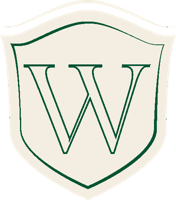
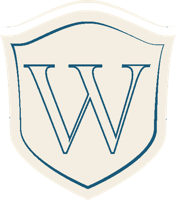
Paleta com os tons da logomarca (azul petróleo) e detalhes dourados
Claude-Session: https://claude.ai/code/session_01LjU1oqPuPxr3orGULgcndh

diff --git a/index.html b/index.html
@@ -1281,7 +1281,7 @@ if(!reduce && 'IntersectionObserver' in window){
   const code=()=>{const a='ABCDEFGHJKLMNPQRSTUVWXYZ23456789';let s='';const r=crypto.getRandomValues(new Uint8Array(6));r.forEach(n=>s+=a[n%a.length]);return 'WEISS-'+s};
   const logo=new Image();logo.src='assets/logo-weiss-escuro.png';
   const draw=d=>{const x=cv.getContext('2d'),W=cv.width,H=cv.height;
-    const g=x.createLinearGradient(0,0,W,H);g.addColorStop(0,'#006039');g.addColorStop(1,'#00221A');x.fillStyle=g;x.fillRect(0,0,W,H);
+    const g=x.createLinearGradient(0,0,W,H);g.addColorStop(0,'#185878');g.addColorStop(1,'#06202C');x.fillStyle=g;x.fillRect(0,0,W,H);
     const r=x.createRadialGradient(W*.8,0,10,W*.8,0,W);r.addColorStop(0,'rgba(232,213,168,.35)');r.addColorStop(1,'rgba(232,213,168,0)');x.fillStyle=r;x.fillRect(0,0,W,H);
     x.strokeStyle='#C9A86A';x.lineWidth=4;x.strokeRect(40,40,W-80,H-80);
     if(logo.complete&&logo.naturalWidth){const lh=300,lw=logo.naturalWidth*lh/logo.naturalHeight;x.drawImage(logo,(W-lw)/2,90,lw,lh)}
@@ -1431,8 +1431,8 @@ document.querySelectorAll('.copy').forEach(b=>b.addEventListener('click',()=>{
 </script>
 <style id="lux-theme">
 /* ===== Luxury theme: Rolex-style green + champagne gold, light & dark ===== */
-html[data-theme="light"]{--bg:#FBFAF6;--bg-2:#F3F0E8;--surface:#FFFFFF;--line:rgba(0,72,44,.14);--fg:#0E2A1F;--fg-dim:#4B5B53;--accent:#006039;--on-accent:#FFFFFF;--deep:#00452A;--gold:#A8884A;--gold-2:#D9C59C;--sec-1:#FBFAF6;--sec-2:#F3F0E8;--hero-glow:rgba(168,136,74,.16);--feat-a:#00452A;--feat-b:#001F14;--em-a:#00643C;--em-b:#A8884A;--btn:#006039;--btn-fg:#FFFFFF;--btn-h:#00452A;--logo-f:none;--shadow:0 22px 50px -34px rgba(0,40,25,.45);color-scheme:light}
-html[data-theme="dark"]{--bg:#05110C;--bg-2:#0A1A13;--surface:#0F2219;--line:rgba(217,197,156,.16);--fg:#F4F0E6;--fg-dim:#B9B3A2;--accent:#C9A86A;--on-accent:#0A1A13;--deep:#0E6B45;--gold:#C9A86A;--gold-2:#E8D5A8;--sec-1:#06140E;--sec-2:#0A1B14;--hero-glow:rgba(201,168,106,.14);--feat-a:#0B5A3A;--feat-b:#021009;--em-a:#EAD7A6;--em-b:#B8924F;--btn:#C9A86A;--btn-fg:#0A1A13;--btn-h:#E2C88E;--logo-f:brightness(0) saturate(100%) invert(80%) sepia(22%) saturate(640%) hue-rotate(2deg) brightness(95%);--shadow:0 26px 60px -30px rgba(0,0,0,.8);color-scheme:dark}
+html[data-theme="light"]{--bg:#FBFAF6;--bg-2:#F3F0E8;--surface:#FFFFFF;--line:rgba(24,88,120,.15);--fg:#0C2A38;--fg-dim:#4B5B53;--accent:#185878;--on-accent:#FFFFFF;--deep:#0F3F57;--gold:#A8884A;--gold-2:#D9C59C;--sec-1:#FBFAF6;--sec-2:#F3F0E8;--hero-glow:rgba(168,136,74,.16);--feat-a:#0F3F57;--feat-b:#061C27;--em-a:#185878;--em-b:#A8884A;--btn:#185878;--btn-fg:#FFFFFF;--btn-h:#0F3F57;--logo-f:none;--shadow:0 22px 50px -34px rgba(10,40,55,.45);color-scheme:light}
+html[data-theme="dark"]{--bg:#05141B;--bg-2:#071A23;--surface:#0D2533;--line:rgba(217,197,156,.16);--fg:#F4F0E6;--fg-dim:#B9B3A2;--accent:#C9A86A;--on-accent:#071A23;--deep:#1F6E8C;--gold:#C9A86A;--gold-2:#E8D5A8;--sec-1:#061A23;--sec-2:#08202B;--hero-glow:rgba(201,168,106,.14);--feat-a:#155A78;--feat-b:#03101A;--em-a:#EAD7A6;--em-b:#B8924F;--btn:#C9A86A;--btn-fg:#071A23;--btn-h:#E2C88E;--logo-f:brightness(0) saturate(100%) invert(80%) sepia(22%) saturate(640%) hue-rotate(2deg) brightness(95%);--shadow:0 26px 60px -30px rgba(0,0,0,.8);color-scheme:dark}
 html[data-theme]{--dim:var(--fg-dim);--card:var(--surface);--band:var(--bg-2);--link:var(--accent);--mint:var(--gold-2)}
 html[data-theme] body,html[data-theme] main{background:var(--bg)!important;color:var(--fg)}
 html[data-theme] body::before{background:var(--bg)!important}
@@ -1474,7 +1474,7 @@ html[data-theme] .stats{box-shadow:none!important}
 html[data-theme] .stat{border-color:var(--line)!important}
 html[data-theme] .plan.featured,html[data-theme] .plan.feat{border-color:var(--gold)!important;box-shadow:0 0 0 1px var(--gold),var(--shadow)!important}
 html[data-theme] th{background:var(--bg-2)!important;color:var(--fg)!important}
-html[data-theme] th.inv{background:linear-gradient(135deg,var(--deep),#00331F)!important;color:#F1E2BB!important}
+html[data-theme] th.inv{background:linear-gradient(135deg,var(--deep),#0A2C3D)!important;color:#F1E2BB!important}
 html[data-theme] td.yes{color:var(--fg)!important}
 html[data-theme] td.yes::before{color:var(--gold)!important}
 html[data-theme] .float b,html[data-theme] .badge b{color:var(--gold)!important}
@@ -1483,21 +1483,21 @@ html[data-theme] .chip,html[data-theme] .ptabs,html[data-theme] .copy{background
 html[data-theme] .chip.on,html[data-theme] .ptab.on{background:var(--btn)!important;color:var(--btn-fg)!important;border-color:var(--btn)!important}
 html[data-theme] .ptab{color:var(--fg-dim)!important}
 /* buttons */
-html[data-theme] .btn-gold{background:var(--btn)!important;color:var(--btn-fg)!important;box-shadow:0 10px 26px -14px rgba(0,60,35,.6)}
+html[data-theme] .btn-gold{background:var(--btn)!important;color:var(--btn-fg)!important;box-shadow:0 10px 26px -14px rgba(12,50,70,.6)}
 html[data-theme] .btn-gold:hover{background:var(--btn-h)!important}
 html[data-theme] .btn-ghost{background:transparent!important;color:var(--fg)!important;border:1px solid var(--gold)!important}
 html[data-theme] .world .btn-ghost,html[data-theme] .cta-band .btn-ghost,html[data-theme] .book .btn-ghost{color:#F4F0E6!important}
-html[data-theme] .cta-band .btn-gold,html[data-theme] .book .btn-gold{background:#C9A86A!important;color:#0A1A13!important}
+html[data-theme] .cta-band .btn-gold,html[data-theme] .book .btn-gold{background:#C9A86A!important;color:#071A23!important}
 /* icons */
-html[data-theme] .svc-ic,html[data-theme] .svc:nth-child(n) .svc-ic,html[data-theme] .ico{background:linear-gradient(135deg,#0B6E47,#00331F)!important;color:#EAD7A6!important;box-shadow:inset 0 0 0 1px rgba(234,215,166,.35)}
+html[data-theme] .svc-ic,html[data-theme] .svc:nth-child(n) .svc-ic,html[data-theme] .ico{background:linear-gradient(135deg,#1F6E8C,#0A2C3D)!important;color:#EAD7A6!important;box-shadow:inset 0 0 0 1px rgba(234,215,166,.35)}
 html[data-theme] .svc-go{color:var(--gold)!important}
 html[data-theme] .cls .vis{background:linear-gradient(160deg,var(--bg-2),var(--surface))!important}
 /* apple-style tiles → green / gold / black */
 html[data-theme] .at-gray,html[data-theme] .at-white,html[data-theme] .at-mint{background:radial-gradient(80% 60% at 50% 70%,var(--hero-glow),transparent 70%),var(--sec-2)!important;color:var(--fg)!important}
-html[data-theme] .at-black{background:radial-gradient(70% 55% at 50% 72%,#0B5A3A 0%,#01120B 72%)!important;color:#F4F0E6!important}
+html[data-theme] .at-black{background:radial-gradient(70% 55% at 50% 72%,#155A78 0%,#03121A 72%)!important;color:#F4F0E6!important}
 html[data-theme] .at-black h3{color:#F7F2E7!important}html[data-theme] .at-black .at-sub{color:#CFC8B6!important}html[data-theme] .at-black .at-links a{color:#D9C59C!important}
 html[data-theme] .at-coral{background:radial-gradient(70% 60% at 50% 70%,rgba(255,240,205,.35),transparent 70%),linear-gradient(160deg,#C9A86A,#8C6A2F)!important;color:#1A1205!important}
-html[data-theme] .at-violet{background:radial-gradient(70% 60% at 50% 70%,rgba(201,168,106,.25),transparent 70%),linear-gradient(160deg,#0E6B45,#003621)!important;color:#F7F2E7!important}
+html[data-theme] .at-violet{background:radial-gradient(70% 60% at 50% 70%,rgba(201,168,106,.25),transparent 70%),linear-gradient(160deg,#1F6E8C,#0A2C3D)!important;color:#F7F2E7!important}
 html[data-theme] .at-sun{background:radial-gradient(70% 60% at 50% 70%,rgba(255,250,235,.5),transparent 70%),linear-gradient(160deg,#EFE3C6,#C9A86A)!important;color:#1A1205!important}
 html[data-theme] .at-coral h3,html[data-theme] .at-sun h3{color:#1A1205!important}html[data-theme] .at-violet h3{color:#F7F2E7!important}
 html[data-theme] .at-coral .at-sub,html[data-theme] .at-sun .at-sub{color:#3A2C12!important}html[data-theme] .at-violet .at-sub{color:#E3DCCB!important}
@@ -1508,11 +1508,11 @@ html[data-theme="dark"] .portrait img,html[data-theme="dark"] .at-mint .at-media
 html[data-theme="dark"] .portrait::before{background:radial-gradient(closest-side,rgba(201,168,106,.28),rgba(201,168,106,0) 72%)!important}
 html[data-theme="dark"] .at-media::before{background:radial-gradient(closest-side,rgba(201,168,106,.22),rgba(201,168,106,0))!important}
 /* watch rings in brand luxury tones */
-html[data-theme] .r1{stroke:#0E6B45}html[data-theme] .r2{stroke:#C9A86A}html[data-theme] .r3{stroke:#E8D5A8}html[data-theme] .r4{stroke:#C9A86A}
-html[data-theme] .honey{background:radial-gradient(closest-side,#0B2A1D,#020C07)!important}
+html[data-theme] .r1{stroke:#1F6E8C}html[data-theme] .r2{stroke:#C9A86A}html[data-theme] .r3{stroke:#E8D5A8}html[data-theme] .r4{stroke:#C9A86A}
+html[data-theme] .honey{background:radial-gradient(closest-side,#0A2633,#020B12)!important}
 html[data-theme] .bub{box-shadow:0 0 0 1.5px rgba(232,213,168,.9),0 6px 16px -6px rgba(0,0,0,.6)!important}
 html[data-theme] .at-3d path[stroke^="url"]{stroke:#C9A86A}html[data-theme] .at-3d path[stroke="#2997FF"],html[data-theme] .at-3d path[stroke="#5AC8FA"]{stroke:#E8D5A8}html[data-theme] .spark{fill:#E8D5A8}
-html[data-theme="light"] .at-white .at-3d path[stroke^="url"]{stroke:#00643C}
+html[data-theme="light"] .at-white .at-3d path[stroke^="url"]{stroke:#1A6585}
 
 /* dark-mode negative logo */
 html[data-theme="dark"]{--logo-f:none}

diff --git a/dentista-caruaru.html b/dentista-caruaru.html
@@ -350,8 +350,8 @@ footer a{color:#0066CC;text-decoration:none}
 </script>
 <style id="lux-theme">
 /* ===== Luxury theme: Rolex-style green + champagne gold, light & dark ===== */
-html[data-theme="light"]{--bg:#FBFAF6;--bg-2:#F3F0E8;--surface:#FFFFFF;--line:rgba(0,72,44,.14);--fg:#0E2A1F;--fg-dim:#4B5B53;--accent:#006039;--on-accent:#FFFFFF;--deep:#00452A;--gold:#A8884A;--gold-2:#D9C59C;--sec-1:#FBFAF6;--sec-2:#F3F0E8;--hero-glow:rgba(168,136,74,.16);--feat-a:#00452A;--feat-b:#001F14;--em-a:#00643C;--em-b:#A8884A;--btn:#006039;--btn-fg:#FFFFFF;--btn-h:#00452A;--logo-f:none;--shadow:0 22px 50px -34px rgba(0,40,25,.45);color-scheme:light}
-html[data-theme="dark"]{--bg:#05110C;--bg-2:#0A1A13;--surface:#0F2219;--line:rgba(217,197,156,.16);--fg:#F4F0E6;--fg-dim:#B9B3A2;--accent:#C9A86A;--on-accent:#0A1A13;--deep:#0E6B45;--gold:#C9A86A;--gold-2:#E8D5A8;--sec-1:#06140E;--sec-2:#0A1B14;--hero-glow:rgba(201,168,106,.14);--feat-a:#0B5A3A;--feat-b:#021009;--em-a:#EAD7A6;--em-b:#B8924F;--btn:#C9A86A;--btn-fg:#0A1A13;--btn-h:#E2C88E;--logo-f:brightness(0) saturate(100%) invert(80%) sepia(22%) saturate(640%) hue-rotate(2deg) brightness(95%);--shadow:0 26px 60px -30px rgba(0,0,0,.8);color-scheme:dark}
+html[data-theme="light"]{--bg:#FBFAF6;--bg-2:#F3F0E8;--surface:#FFFFFF;--line:rgba(24,88,120,.15);--fg:#0C2A38;--fg-dim:#4B5B53;--accent:#185878;--on-accent:#FFFFFF;--deep:#0F3F57;--gold:#A8884A;--gold-2:#D9C59C;--sec-1:#FBFAF6;--sec-2:#F3F0E8;--hero-glow:rgba(168,136,74,.16);--feat-a:#0F3F57;--feat-b:#061C27;--em-a:#185878;--em-b:#A8884A;--btn:#185878;--btn-fg:#FFFFFF;--btn-h:#0F3F57;--logo-f:none;--shadow:0 22px 50px -34px rgba(10,40,55,.45);color-scheme:light}
+html[data-theme="dark"]{--bg:#05141B;--bg-2:#071A23;--surface:#0D2533;--line:rgba(217,197,156,.16);--fg:#F4F0E6;--fg-dim:#B9B3A2;--accent:#C9A86A;--on-accent:#071A23;--deep:#1F6E8C;--gold:#C9A86A;--gold-2:#E8D5A8;--sec-1:#061A23;--sec-2:#08202B;--hero-glow:rgba(201,168,106,.14);--feat-a:#155A78;--feat-b:#03101A;--em-a:#EAD7A6;--em-b:#B8924F;--btn:#C9A86A;--btn-fg:#071A23;--btn-h:#E2C88E;--logo-f:brightness(0) saturate(100%) invert(80%) sepia(22%) saturate(640%) hue-rotate(2deg) brightness(95%);--shadow:0 26px 60px -30px rgba(0,0,0,.8);color-scheme:dark}
 html[data-theme]{--dim:var(--fg-dim);--card:var(--surface);--band:var(--bg-2);--link:var(--accent);--mint:var(--gold-2)}
 html[data-theme] body,html[data-theme] main{background:var(--bg)!important;color:var(--fg)}
 html[data-theme] body::before{background:var(--bg)!important}
@@ -393,7 +393,7 @@ html[data-theme] .stats{box-shadow:none!important}
 html[data-theme] .stat{border-color:var(--line)!important}
 html[data-theme] .plan.featured,html[data-theme] .plan.feat{border-color:var(--gold)!important;box-shadow:0 0 0 1px var(--gold),var(--shadow)!important}
 html[data-theme] th{background:var(--bg-2)!important;color:var(--fg)!important}
-html[data-theme] th.inv{background:linear-gradient(135deg,var(--deep),#00331F)!important;color:#F1E2BB!important}
+html[data-theme] th.inv{background:linear-gradient(135deg,var(--deep),#0A2C3D)!important;color:#F1E2BB!important}
 html[data-theme] td.yes{color:var(--fg)!important}
 html[data-theme] td.yes::before{color:var(--gold)!important}
 html[data-theme] .float b,html[data-theme] .badge b{color:var(--gold)!important}
@@ -402,21 +402,21 @@ html[data-theme] .chip,html[data-theme] .ptabs,html[data-theme] .copy{background
 html[data-theme] .chip.on,html[data-theme] .ptab.on{background:var(--btn)!important;color:var(--btn-fg)!important;border-color:var(--btn)!important}
 html[data-theme] .ptab{color:var(--fg-dim)!important}
 /* buttons */
-html[data-theme] .btn-gold{background:var(--btn)!important;color:var(--btn-fg)!important;box-shadow:0 10px 26px -14px rgba(0,60,35,.6)}
+html[data-theme] .btn-gold{background:var(--btn)!important;color:var(--btn-fg)!important;box-shadow:0 10px 26px -14px rgba(12,50,70,.6)}
 html[data-theme] .btn-gold:hover{background:var(--btn-h)!important}
 html[data-theme] .btn-ghost{background:transparent!important;color:var(--fg)!important;border:1px solid var(--gold)!important}
 html[data-theme] .world .btn-ghost,html[data-theme] .cta-band .btn-ghost,html[data-theme] .book .btn-ghost{color:#F4F0E6!important}
-html[data-theme] .cta-band .btn-gold,html[data-theme] .book .btn-gold{background:#C9A86A!important;color:#0A1A13!important}
+html[data-theme] .cta-band .btn-gold,html[data-theme] .book .btn-gold{background:#C9A86A!important;color:#071A23!important}
 /* icons */
-html[data-theme] .svc-ic,html[data-theme] .svc:nth-child(n) .svc-ic,html[data-theme] .ico{background:linear-gradient(135deg,#0B6E47,#00331F)!important;color:#EAD7A6!important;box-shadow:inset 0 0 0 1px rgba(234,215,166,.35)}
+html[data-theme] .svc-ic,html[data-theme] .svc:nth-child(n) .svc-ic,html[data-theme] .ico{background:linear-gradient(135deg,#1F6E8C,#0A2C3D)!important;color:#EAD7A6!important;box-shadow:inset 0 0 0 1px rgba(234,215,166,.35)}
 html[data-theme] .svc-go{color:var(--gold)!important}
 html[data-theme] .cls .vis{background:linear-gradient(160deg,var(--bg-2),var(--surface))!important}
 /* apple-style tiles → green / gold / black */
 html[data-theme] .at-gray,html[data-theme] .at-white,html[data-theme] .at-mint{background:radial-gradient(80% 60% at 50% 70%,var(--hero-glow),transparent 70%),var(--sec-2)!important;color:var(--fg)!important}
-html[data-theme] .at-black{background:radial-gradient(70% 55% at 50% 72%,#0B5A3A 0%,#01120B 72%)!important;color:#F4F0E6!important}
+html[data-theme] .at-black{background:radial-gradient(70% 55% at 50% 72%,#155A78 0%,#03121A 72%)!important;color:#F4F0E6!important}
 html[data-theme] .at-black h3{color:#F7F2E7!important}html[data-theme] .at-black .at-sub{color:#CFC8B6!important}html[data-theme] .at-black .at-links a{color:#D9C59C!important}
 html[data-theme] .at-coral{background:radial-gradient(70% 60% at 50% 70%,rgba(255,240,205,.35),transparent 70%),linear-gradient(160deg,#C9A86A,#8C6A2F)!important;color:#1A1205!important}
-html[data-theme] .at-violet{background:radial-gradient(70% 60% at 50% 70%,rgba(201,168,106,.25),transparent 70%),linear-gradient(160deg,#0E6B45,#003621)!important;color:#F7F2E7!important}
+html[data-theme] .at-violet{background:radial-gradient(70% 60% at 50% 70%,rgba(201,168,106,.25),transparent 70%),linear-gradient(160deg,#1F6E8C,#0A2C3D)!important;color:#F7F2E7!important}
 html[data-theme] .at-sun{background:radial-gradient(70% 60% at 50% 70%,rgba(255,250,235,.5),transparent 70%),linear-gradient(160deg,#EFE3C6,#C9A86A)!important;color:#1A1205!important}
 html[data-theme] .at-coral h3,html[data-theme] .at-sun h3{color:#1A1205!important}html[data-theme] .at-violet h3{color:#F7F2E7!important}
 html[data-theme] .at-coral .at-sub,html[data-theme] .at-sun .at-sub{color:#3A2C12!important}html[data-theme] .at-violet .at-sub{color:#E3DCCB!important}
@@ -427,11 +427,11 @@ html[data-theme="dark"] .portrait img,html[data-theme="dark"] .at-mint .at-media
 html[data-theme="dark"] .portrait::before{background:radial-gradient(closest-side,rgba(201,168,106,.28),rgba(201,168,106,0) 72%)!important}
 html[data-theme="dark"] .at-media::before{background:radial-gradient(closest-side,rgba(201,168,106,.22),rgba(201,168,106,0))!important}
 /* watch rings in brand luxury tones */
-html[data-theme] .r1{stroke:#0E6B45}html[data-theme] .r2{stroke:#C9A86A}html[data-theme] .r3{stroke:#E8D5A8}html[data-theme] .r4{stroke:#C9A86A}
-html[data-theme] .honey{background:radial-gradient(closest-side,#0B2A1D,#020C07)!important}
+html[data-theme] .r1{stroke:#1F6E8C}html[data-theme] .r2{stroke:#C9A86A}html[data-theme] .r3{stroke:#E8D5A8}html[data-theme] .r4{stroke:#C9A86A}
+html[data-theme] .honey{background:radial-gradient(closest-side,#0A2633,#020B12)!important}
 html[data-theme] .bub{box-shadow:0 0 0 1.5px rgba(232,213,168,.9),0 6px 16px -6px rgba(0,0,0,.6)!important}
 html[data-theme] .at-3d path[stroke^="url"]{stroke:#C9A86A}html[data-theme] .at-3d path[stroke="#2997FF"],html[data-theme] .at-3d path[stroke="#5AC8FA"]{stroke:#E8D5A8}html[data-theme] .spark{fill:#E8D5A8}
-html[data-theme="light"] .at-white .at-3d path[stroke^="url"]{stroke:#00643C}
+html[data-theme="light"] .at-white .at-3d path[stroke^="url"]{stroke:#1A6585}
 
 /* dark-mode negative logo */
 html[data-theme="dark"]{--logo-f:none}

diff --git a/dentista-recife.html b/dentista-recife.html
@@ -350,8 +350,8 @@ footer a{color:#0066CC;text-decoration:none}
 </script>
 <style id="lux-theme">
 /* ===== Luxury theme: Rolex-style green + champagne gold, light & dark ===== */
-html[data-theme="light"]{--bg:#FBFAF6;--bg-2:#F3F0E8;--surface:#FFFFFF;--line:rgba(0,72,44,.14);--fg:#0E2A1F;--fg-dim:#4B5B53;--accent:#006039;--on-accent:#FFFFFF;--deep:#00452A;--gold:#A8884A;--gold-2:#D9C59C;--sec-1:#FBFAF6;--sec-2:#F3F0E8;--hero-glow:rgba(168,136,74,.16);--feat-a:#00452A;--feat-b:#001F14;--em-a:#00643C;--em-b:#A8884A;--btn:#006039;--btn-fg:#FFFFFF;--btn-h:#00452A;--logo-f:none;--shadow:0 22px 50px -34px rgba(0,40,25,.45);color-scheme:light}
-html[data-theme="dark"]{--bg:#05110C;--bg-2:#0A1A13;--surface:#0F2219;--line:rgba(217,197,156,.16);--fg:#F4F0E6;--fg-dim:#B9B3A2;--accent:#C9A86A;--on-accent:#0A1A13;--deep:#0E6B45;--gold:#C9A86A;--gold-2:#E8D5A8;--sec-1:#06140E;--sec-2:#0A1B14;--hero-glow:rgba(201,168,106,.14);--feat-a:#0B5A3A;--feat-b:#021009;--em-a:#EAD7A6;--em-b:#B8924F;--btn:#C9A86A;--btn-fg:#0A1A13;--btn-h:#E2C88E;--logo-f:brightness(0) saturate(100%) invert(80%) sepia(22%) saturate(640%) hue-rotate(2deg) brightness(95%);--shadow:0 26px 60px -30px rgba(0,0,0,.8);color-scheme:dark}
+html[data-theme="light"]{--bg:#FBFAF6;--bg-2:#F3F0E8;--surface:#FFFFFF;--line:rgba(24,88,120,.15);--fg:#0C2A38;--fg-dim:#4B5B53;--accent:#185878;--on-accent:#FFFFFF;--deep:#0F3F57;--gold:#A8884A;--gold-2:#D9C59C;--sec-1:#FBFAF6;--sec-2:#F3F0E8;--hero-glow:rgba(168,136,74,.16);--feat-a:#0F3F57;--feat-b:#061C27;--em-a:#185878;--em-b:#A8884A;--btn:#185878;--btn-fg:#FFFFFF;--btn-h:#0F3F57;--logo-f:none;--shadow:0 22px 50px -34px rgba(10,40,55,.45);color-scheme:light}
+html[data-theme="dark"]{--bg:#05141B;--bg-2:#071A23;--surface:#0D2533;--line:rgba(217,197,156,.16);--fg:#F4F0E6;--fg-dim:#B9B3A2;--accent:#C9A86A;--on-accent:#071A23;--deep:#1F6E8C;--gold:#C9A86A;--gold-2:#E8D5A8;--sec-1:#061A23;--sec-2:#08202B;--hero-glow:rgba(201,168,106,.14);--feat-a:#155A78;--feat-b:#03101A;--em-a:#EAD7A6;--em-b:#B8924F;--btn:#C9A86A;--btn-fg:#071A23;--btn-h:#E2C88E;--logo-f:brightness(0) saturate(100%) invert(80%) sepia(22%) saturate(640%) hue-rotate(2deg) brightness(95%);--shadow:0 26px 60px -30px rgba(0,0,0,.8);color-scheme:dark}
 html[data-theme]{--dim:var(--fg-dim);--card:var(--surface);--band:var(--bg-2);--link:var(--accent);--mint:var(--gold-2)}
 html[data-theme] body,html[data-theme] main{background:var(--bg)!important;color:var(--fg)}
 html[data-theme] body::before{background:var(--bg)!important}
@@ -393,7 +393,7 @@ html[data-theme] .stats{box-shadow:none!important}
 html[data-theme] .stat{border-color:var(--line)!important}
 html[data-theme] .plan.featured,html[data-theme] .plan.feat{border-color:var(--gold)!important;box-shadow:0 0 0 1px var(--gold),var(--shadow)!important}
 html[data-theme] th{background:var(--bg-2)!important;color:var(--fg)!important}
-html[data-theme] th.inv{background:linear-gradient(135deg,var(--deep),#00331F)!important;color:#F1E2BB!important}
+html[data-theme] th.inv{background:linear-gradient(135deg,var(--deep),#0A2C3D)!important;color:#F1E2BB!important}
 html[data-theme] td.yes{color:var(--fg)!important}
 html[data-theme] td.yes::before{color:var(--gold)!important}
 html[data-theme] .float b,html[data-theme] .badge b{color:var(--gold)!important}
@@ -402,21 +402,21 @@ html[data-theme] .chip,html[data-theme] .ptabs,html[data-theme] .copy{background
 html[data-theme] .chip.on,html[data-theme] .ptab.on{background:var(--btn)!important;color:var(--btn-fg)!important;border-color:var(--btn)!important}
 html[data-theme] .ptab{color:var(--fg-dim)!important}
 /* buttons */
-html[data-theme] .btn-gold{background:var(--btn)!important;color:var(--btn-fg)!important;box-shadow:0 10px 26px -14px rgba(0,60,35,.6)}
+html[data-theme] .btn-gold{background:var(--btn)!important;color:var(--btn-fg)!important;box-shadow:0 10px 26px -14px rgba(12,50,70,.6)}
 html[data-theme] .btn-gold:hover{background:var(--btn-h)!important}
 html[data-theme] .btn-ghost{background:transparent!important;color:var(--fg)!important;border:1px solid var(--gold)!important}
 html[data-theme] .world .btn-ghost,html[data-theme] .cta-band .btn-ghost,html[data-theme] .book .btn-ghost{color:#F4F0E6!important}
-html[data-theme] .cta-band .btn-gold,html[data-theme] .book .btn-gold{background:#C9A86A!important;color:#0A1A13!important}
+html[data-theme] .cta-band .btn-gold,html[data-theme] .book .btn-gold{background:#C9A86A!important;color:#071A23!important}
 /* icons */
-html[data-theme] .svc-ic,html[data-theme] .svc:nth-child(n) .svc-ic,html[data-theme] .ico{background:linear-gradient(135deg,#0B6E47,#00331F)!important;color:#EAD7A6!important;box-shadow:inset 0 0 0 1px rgba(234,215,166,.35)}
+html[data-theme] .svc-ic,html[data-theme] .svc:nth-child(n) .svc-ic,html[data-theme] .ico{background:linear-gradient(135deg,#1F6E8C,#0A2C3D)!important;color:#EAD7A6!important;box-shadow:inset 0 0 0 1px rgba(234,215,166,.35)}
 html[data-theme] .svc-go{color:var(--gold)!important}
 html[data-theme] .cls .vis{background:linear-gradient(160deg,var(--bg-2),var(--surface))!important}
 /* apple-style tiles → green / gold / black */
 html[data-theme] .at-gray,html[data-theme] .at-white,html[data-theme] .at-mint{background:radial-gradient(80% 60% at 50% 70%,var(--hero-glow),transparent 70%),var(--sec-2)!important;color:var(--fg)!important}
-html[data-theme] .at-black{background:radial-gradient(70% 55% at 50% 72%,#0B5A3A 0%,#01120B 72%)!important;color:#F4F0E6!important}
+html[data-theme] .at-black{background:radial-gradient(70% 55% at 50% 72%,#155A78 0%,#03121A 72%)!important;color:#F4F0E6!important}
 html[data-theme] .at-black h3{color:#F7F2E7!important}html[data-theme] .at-black .at-sub{color:#CFC8B6!important}html[data-theme] .at-black .at-links a{color:#D9C59C!important}
 html[data-theme] .at-coral{background:radial-gradient(70% 60% at 50% 70%,rgba(255,240,205,.35),transparent 70%),linear-gradient(160deg,#C9A86A,#8C6A2F)!important;color:#1A1205!important}
-html[data-theme] .at-violet{background:radial-gradient(70% 60% at 50% 70%,rgba(201,168,106,.25),transparent 70%),linear-gradient(160deg,#0E6B45,#003621)!important;color:#F7F2E7!important}
+html[data-theme] .at-violet{background:radial-gradient(70% 60% at 50% 70%,rgba(201,168,106,.25),transparent 70%),linear-gradient(160deg,#1F6E8C,#0A2C3D)!important;color:#F7F2E7!important}
 html[data-theme] .at-sun{background:radial-gradient(70% 60% at 50% 70%,rgba(255,250,235,.5),transparent 70%),linear-gradient(160deg,#EFE3C6,#C9A86A)!important;color:#1A1205!important}
 html[data-theme] .at-coral h3,html[data-theme] .at-sun h3{color:#1A1205!important}html[data-theme] .at-violet h3{color:#F7F2E7!important}
 html[data-theme] .at-coral .at-sub,html[data-theme] .at-sun .at-sub{color:#3A2C12!important}html[data-theme] .at-violet .at-sub{color:#E3DCCB!important}
@@ -427,11 +427,11 @@ html[data-theme="dark"] .portrait img,html[data-theme="dark"] .at-mint .at-media
 html[data-theme="dark"] .portrait::before{background:radial-gradient(closest-side,rgba(201,168,106,.28),rgba(201,168,106,0) 72%)!important}
 html[data-theme="dark"] .at-media::before{background:radial-gradient(closest-side,rgba(201,168,106,.22),rgba(201,168,106,0))!important}
 /* watch rings in brand luxury tones */
-html[data-theme] .r1{stroke:#0E6B45}html[data-theme] .r2{stroke:#C9A86A}html[data-theme] .r3{stroke:#E8D5A8}html[data-theme] .r4{stroke:#C9A86A}
-html[data-theme] .honey{background:radial-gradient(closest-side,#0B2A1D,#020C07)!important}
+html[data-theme] .r1{stroke:#1F6E8C}html[data-theme] .r2{stroke:#C9A86A}html[data-theme] .r3{stroke:#E8D5A8}html[data-theme] .r4{stroke:#C9A86A}
+html[data-theme] .honey{background:radial-gradient(closest-side,#0A2633,#020B12)!important}
 html[data-theme] .bub{box-shadow:0 0 0 1.5px rgba(232,213,168,.9),0 6px 16px -6px rgba(0,0,0,.6)!important}
 html[data-theme] .at-3d path[stroke^="url"]{stroke:#C9A86A}html[data-theme] .at-3d path[stroke="#2997FF"],html[data-theme] .at-3d path[stroke="#5AC8FA"]{stroke:#E8D5A8}html[data-theme] .spark{fill:#E8D5A8}
-html[data-theme="light"] .at-white .at-3d path[stroke^="url"]{stroke:#00643C}
+html[data-theme="light"] .at-white .at-3d path[stroke^="url"]{stroke:#1A6585}
 
 /* dark-mode negative logo */
 html[data-theme="dark"]{--logo-f:none}

diff --git a/invisalign.html b/invisalign.html
@@ -395,8 +395,8 @@ footer a{color:#0066CC;text-decoration:none}
 </script>
 <style id="lux-theme">
 /* ===== Luxury theme: Rolex-style green + champagne gold, light & dark ===== */
-html[data-theme="light"]{--bg:#FBFAF6;--bg-2:#F3F0E8;--surface:#FFFFFF;--line:rgba(0,72,44,.14);--fg:#0E2A1F;--fg-dim:#4B5B53;--accent:#006039;--on-accent:#FFFFFF;--deep:#00452A;--gold:#A8884A;--gold-2:#D9C59C;--sec-1:#FBFAF6;--sec-2:#F3F0E8;--hero-glow:rgba(168,136,74,.16);--feat-a:#00452A;--feat-b:#001F14;--em-a:#00643C;--em-b:#A8884A;--btn:#006039;--btn-fg:#FFFFFF;--btn-h:#00452A;--logo-f:none;--shadow:0 22px 50px -34px rgba(0,40,25,.45);color-scheme:light}
-html[data-theme="dark"]{--bg:#05110C;--bg-2:#0A1A13;--surface:#0F2219;--line:rgba(217,197,156,.16);--fg:#F4F0E6;--fg-dim:#B9B3A2;--accent:#C9A86A;--on-accent:#0A1A13;--deep:#0E6B45;--gold:#C9A86A;--gold-2:#E8D5A8;--sec-1:#06140E;--sec-2:#0A1B14;--hero-glow:rgba(201,168,106,.14);--feat-a:#0B5A3A;--feat-b:#021009;--em-a:#EAD7A6;--em-b:#B8924F;--btn:#C9A86A;--btn-fg:#0A1A13;--btn-h:#E2C88E;--logo-f:brightness(0) saturate(100%) invert(80%) sepia(22%) saturate(640%) hue-rotate(2deg) brightness(95%);--shadow:0 26px 60px -30px rgba(0,0,0,.8);color-scheme:dark}
+html[data-theme="light"]{--bg:#FBFAF6;--bg-2:#F3F0E8;--surface:#FFFFFF;--line:rgba(24,88,120,.15);--fg:#0C2A38;--fg-dim:#4B5B53;--accent:#185878;--on-accent:#FFFFFF;--deep:#0F3F57;--gold:#A8884A;--gold-2:#D9C59C;--sec-1:#FBFAF6;--sec-2:#F3F0E8;--hero-glow:rgba(168,136,74,.16);--feat-a:#0F3F57;--feat-b:#061C27;--em-a:#185878;--em-b:#A8884A;--btn:#185878;--btn-fg:#FFFFFF;--btn-h:#0F3F57;--logo-f:none;--shadow:0 22px 50px -34px rgba(10,40,55,.45);color-scheme:light}
+html[data-theme="dark"]{--bg:#05141B;--bg-2:#071A23;--surface:#0D2533;--line:rgba(217,197,156,.16);--fg:#F4F0E6;--fg-dim:#B9B3A2;--accent:#C9A86A;--on-accent:#071A23;--deep:#1F6E8C;--gold:#C9A86A;--gold-2:#E8D5A8;--sec-1:#061A23;--sec-2:#08202B;--hero-glow:rgba(201,168,106,.14);--feat-a:#155A78;--feat-b:#03101A;--em-a:#EAD7A6;--em-b:#B8924F;--btn:#C9A86A;--btn-fg:#071A23;--btn-h:#E2C88E;--logo-f:brightness(0) saturate(100%) invert(80%) sepia(22%) saturate(640%) hue-rotate(2deg) brightness(95%);--shadow:0 26px 60px -30px rgba(0,0,0,.8);color-scheme:dark}
 html[data-theme]{--dim:var(--fg-dim);--card:var(--surface);--band:var(--bg-2);--link:var(--accent);--mint:var(--gold-2)}
 html[data-theme] body,html[data-theme] main{background:var(--bg)!important;color:var(--fg)}
 html[data-theme] body::before{background:var(--bg)!important}
@@ -438,7 +438,7 @@ html[data-theme] .stats{box-shadow:none!important}
 html[data-theme] .stat{border-color:var(--line)!important}
 html[data-theme] .plan.featured,html[data-theme] .plan.feat{border-color:var(--gold)!important;box-shadow:0 0 0 1px var(--gold),var(--shadow)!important}
 html[data-theme] th{background:var(--bg-2)!important;color:var(--fg)!important}
-html[data-theme] th.inv{background:linear-gradient(135deg,var(--deep),#00331F)!important;color:#F1E2BB!important}
+html[data-theme] th.inv{background:linear-gradient(135deg,var(--deep),#0A2C3D)!important;color:#F1E2BB!important}
 html[data-theme] td.yes{color:var(--fg)!important}
 html[data-theme] td.yes::before{color:var(--gold)!important}
 html[data-theme] .float b,html[data-theme] .badge b{color:var(--gold)!important}
@@ -447,21 +447,21 @@ html[data-theme] .chip,html[data-theme] .ptabs,html[data-theme] .copy{background
 html[data-theme] .chip.on,html[data-theme] .ptab.on{background:var(--btn)!important;color:var(--btn-fg)!important;border-color:var(--btn)!important}
 html[data-theme] .ptab{color:var(--fg-dim)!important}
 /* buttons */
-html[data-theme] .btn-gold{background:var(--btn)!important;color:var(--btn-fg)!important;box-shadow:0 10px 26px -14px rgba(0,60,35,.6)}
+html[data-theme] .btn-gold{background:var(--btn)!important;color:var(--btn-fg)!important;box-shadow:0 10px 26px -14px rgba(12,50,70,.6)}
 html[data-theme] .btn-gold:hover{background:var(--btn-h)!important}
 html[data-theme] .btn-ghost{background:transparent!important;color:var(--fg)!important;border:1px solid var(--gold)!important}
 html[data-theme] .world .btn-ghost,html[data-theme] .cta-band .btn-ghost,html[data-theme] .book .btn-ghost{color:#F4F0E6!important}
-html[data-theme] .cta-band .btn-gold,html[data-theme] .book .btn-gold{background:#C9A86A!important;color:#0A1A13!important}
+html[data-theme] .cta-band .btn-gold,html[data-theme] .book .btn-gold{background:#C9A86A!important;color:#071A23!important}
 /* icons */
-html[data-theme] .svc-ic,html[data-theme] .svc:nth-child(n) .svc-ic,html[data-theme] .ico{background:linear-gradient(135deg,#0B6E47,#00331F)!important;color:#EAD7A6!important;box-shadow:inset 0 0 0 1px rgba(234,215,166,.35)}
+html[data-theme] .svc-ic,html[data-theme] .svc:nth-child(n) .svc-ic,html[data-theme] .ico{background:linear-gradient(135deg,#1F6E8C,#0A2C3D)!important;color:#EAD7A6!important;box-shadow:inset 0 0 0 1px rgba(234,215,166,.35)}
 html[data-theme] .svc-go{color:var(--gold)!important}
 html[data-theme] .cls .vis{background:linear-gradient(160deg,var(--bg-2),var(--surface))!important}
 /* apple-style tiles → green / gold / black */
 html[data-theme] .at-gray,html[data-theme] .at-white,html[data-theme] .at-mint{background:radial-gradient(80% 60% at 50% 70%,var(--hero-glow),transparent 70%),var(--sec-2)!important;color:var(--fg)!important}
-html[data-theme] .at-black{background:radial-gradient(70% 55% at 50% 72%,#0B5A3A 0%,#01120B 72%)!important;color:#F4F0E6!important}
+html[data-theme] .at-black{background:radial-gradient(70% 55% at 50% 72%,#155A78 0%,#03121A 72%)!important;color:#F4F0E6!important}
 html[data-theme] .at-black h3{color:#F7F2E7!important}html[data-theme] .at-black .at-sub{color:#CFC8B6!important}html[data-theme] .at-black .at-links a{color:#D9C59C!important}
 html[data-theme] .at-coral{background:radial-gradient(70% 60% at 50% 70%,rgba(255,240,205,.35),transparent 70%),linear-gradient(160deg,#C9A86A,#8C6A2F)!important;color:#1A1205!important}
-html[data-theme] .at-violet{background:radial-gradient(70% 60% at 50% 70%,rgba(201,168,106,.25),transparent 70%),linear-gradient(160deg,#0E6B45,#003621)!important;color:#F7F2E7!important}
+html[data-theme] .at-violet{background:radial-gradient(70% 60% at 50% 70%,rgba(201,168,106,.25),transparent 70%),linear-gradient(160deg,#1F6E8C,#0A2C3D)!important;color:#F7F2E7!important}
 html[data-theme] .at-sun{background:radial-gradient(70% 60% at 50% 70%,rgba(255,250,235,.5),transparent 70%),linear-gradient(160deg,#EFE3C6,#C9A86A)!important;color:#1A1205!important}
 html[data-theme] .at-coral h3,html[data-theme] .at-sun h3{color:#1A1205!important}html[data-theme] .at-violet h3{color:#F7F2E7!important}
 html[data-theme] .at-coral .at-sub,html[data-theme] .at-sun .at-sub{color:#3A2C12!important}html[data-theme] .at-violet .at-sub{color:#E3DCCB!important}
@@ -472,11 +472,11 @@ html[data-theme="dark"] .portrait img,html[data-theme="dark"] .at-mint .at-media
 html[data-theme="dark"] .portrait::before{background:radial-gradient(closest-side,rgba(201,168,106,.28),rgba(201,168,106,0) 72%)!important}
 html[data-theme="dark"] .at-media::before{background:radial-gradient(closest-side,rgba(201,168,106,.22),rgba(201,168,106,0))!important}
 /* watch rings in brand luxury tones */
-html[data-theme] .r1{stroke:#0E6B45}html[data-theme] .r2{stroke:#C9A86A}html[data-theme] .r3{stroke:#E8D5A8}html[data-theme] .r4{stroke:#C9A86A}
-html[data-theme] .honey{background:radial-gradient(closest-side,#0B2A1D,#020C07)!important}
+html[data-theme] .r1{stroke:#1F6E8C}html[data-theme] .r2{stroke:#C9A86A}html[data-theme] .r3{stroke:#E8D5A8}html[data-theme] .r4{stroke:#C9A86A}
+html[data-theme] .honey{background:radial-gradient(closest-side,#0A2633,#020B12)!important}
 html[data-theme] .bub{box-shadow:0 0 0 1.5px rgba(232,213,168,.9),0 6px 16px -6px rgba(0,0,0,.6)!important}
 html[data-theme] .at-3d path[stroke^="url"]{stroke:#C9A86A}html[data-theme] .at-3d path[stroke="#2997FF"],html[data-theme] .at-3d path[stroke="#5AC8FA"]{stroke:#E8D5A8}html[data-theme] .spark{fill:#E8D5A8}
-html[data-theme="light"] .at-white .at-3d path[stroke^="url"]{stroke:#00643C}
+html[data-theme="light"] .at-white .at-3d path[stroke^="url"]{stroke:#1A6585}
 
 /* dark-mode negative logo */
 html[data-theme="dark"]{--logo-f:none}
